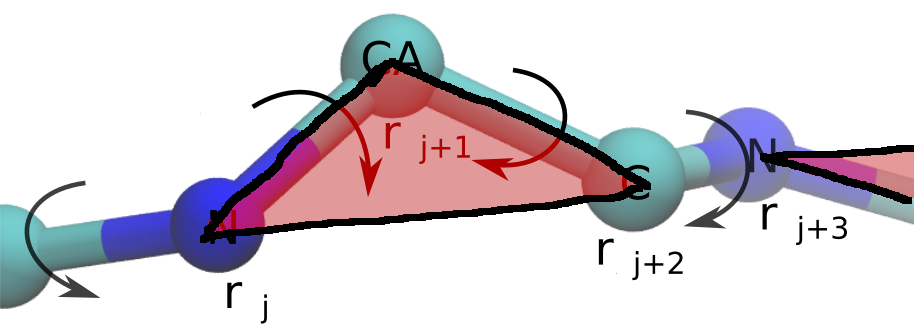
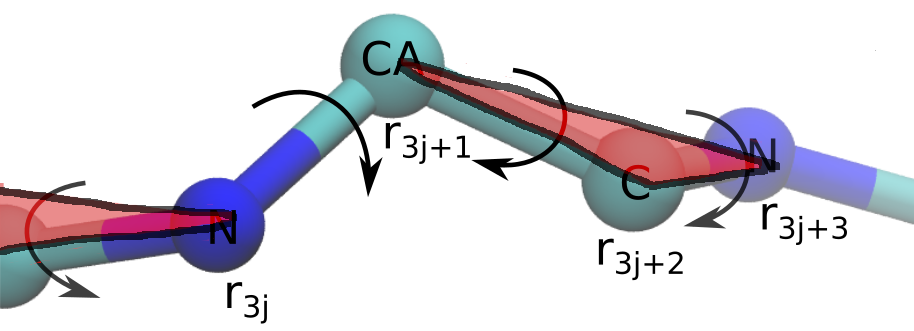
Protein: corrections; MSA: work in progress

diff --git a/docs/msa.html b/docs/msa.html
@@ -1,0 +1,166 @@
+<!doctype html>
+<html lang="en">
+    <head>
+        <meta charset="utf-8">
+        <meta name="viewport" content="width=device-width, initial-scale=1, shrink-to-fit=no">
+        <meta name="description" content="">
+        <meta name="author" content="">
+        <link rel="icon" href="../../../../favicon.ico">
+    
+        <title>OpenFold2</title>
+        <link rel="icon" href="Fig/OpenFold2_small.png" type="image/x-icon">
+    
+        <!-- Bootstrap core CSS -->
+        <link href="https://getbootstrap.com/docs/4.1/dist/css/bootstrap.min.css" rel="stylesheet">
+    
+        <!-- Custom styles for this template -->
+        <link href="css/tmp.css" rel="stylesheet">
+    
+        <script src="js/highlight.pack.js"></script>
+        <script>hljs.initHighlightingOnLoad();</script>
+
+        <script type="text/x-mathjax-config">
+            MathJax.Hub.Config({tex2jax: {inlineMath: [['$','$'], ['\\(','\\)']]}});
+        </script>
+        <script type="text/javascript"
+		    src="https://cdn.mathjax.org/mathjax/latest/MathJax.js?config=TeX-AMS-MML_HTMLorMML">
+	    </script>
+    </head>
+
+  <body>
+
+    <nav class="navbar navbar-expand-md navbar-dark bg-dark fixed-top">
+        <a class="navbar-brand" href="https://github.com/lupoglaz/OpenFold2">GitHub</a>
+        <button class="navbar-toggler" type="button" data-toggle="collapse" data-target="#navbarsExampleDefault" aria-controls="navbarsExampleDefault" aria-expanded="false" aria-label="Toggle navigation">
+          <span class="navbar-toggler-icon"></span>
+        </button>
+  
+          <div class="collapse navbar-collapse" id="navbarsExampleDefault">
+          <ul class="navbar-nav mr-auto">
+              <li class="nav-item">
+                  <a class="nav-link" href="index.html">Home<span class="sr-only">(current)</span></a>
+              </li>
+          </ul>
+          </div>
+      </nav>
+    
+<main role="main" class="container-fluid">
+    <div class="starter-template">
+        <h1>MSA</h1>
+    </div>
+    <div class="container-fluid">
+        <div class="row">
+            <div class="col-sm">
+                <h2>Introduction</h2>
+                <p>Multiple sequence alignment is a key input of AlphaFold2 algorithm. However, the size of the attention matrix 
+                    of the transformer that operates on MSA is $~N^2 M^2$, where $N$ is the sequence length and 
+                    $M$ is the number of sequences in the alignment. This is prohibitively costly even for the DeepMind group.</p>
+                
+                <p>In this chapter, we show how to efficiently incorporate MSA into structure prediction. The key observation is 
+                    that alignment of multiple sequences assumes that they have similar structures. Also, the correlation between 
+                    the mutations in the MSA stems from the proximity of these residues in the protein structure.</p>
+
+            </div>
+            <div class="col-sm">
+                <img src="Fig/AlphaFold2_msapart.png" class="rounded mx-auto d-block float-center" alt="Training process" width=80%>
+                <h5>Figure 1: MSA part of AlphaFold2.</h5>
+            </div>
+            
+        </div>
+        <div class="row">
+            <div class="col-sm">
+                <h2>Dataset</h2>
+                <p>This dataset serves mainly one purpose: to verify that the algorithm can learn structures of proteins from MSA alone.
+                    The sequence, that is served to the structural part is random, while all the information about the arrangement of patters 
+                    is contained in the MSA. Otherwise this dataset closely resembles the one we used in the previous chapter.
+                </p>
+                <p>Similar to the previous dataset, we generate an MSA (<b>Figure 2A</b>), consisting of fragments(Ala) and patterns(Gly). 
+                    Afterwards, we generate displacements of patters 
+                    and insert different amino-acids (R/N) at the beginning of a patterns, that correspond to the displacements.
+                    However in this case each of them are inserted in specific sequence, while the first one remains random.
+                    This way we ensure that all the information about the structure can only be extracted while observing MSA and not 
+                    the first sequence.</p>
+                
+                <p>Then next two setps are the same as in the previous chapter (<b>Figure 2B</b>, <b>Figure 2C</b>). Finally, 
+                    <b>Figure 2D</b> shows samples from the toy MSA dataset. Additionally we increased the size of the dataset
+                    and the length of the sequences to ensure, that the model can not memorize the first random sequences.</p>
+
+            </div>
+            <div class="col">
+                <b>A</b> <img src="Fig/msa_alignment.png" class="rounded mx-auto d-block float-center" alt="Dataset sample" width=80%>
+                <div class="row">
+                    <div class="col-sm">
+                        <b>B</b><img src="Fig/msa_placement.png" class="rounded mx-auto d-block float-center" alt="Dataset sample" width=60%>        
+                    </div>
+                    <div class="col-sm">
+                        <b>C</b><img src="Fig/msa_anim.gif" class="rounded mx-auto d-block float-center" alt="Dataset sample" width=100%>
+                    </div>
+                </div>
+                <b>D</b><img src="Fig/msa_dataset.png" class="rounded mx-auto d-block float-center" alt="Dataset sample" width=50%>
+                <h5>Figure 2: MSA dataset generation steps.</h5>
+            </div>
+            
+        </div>
+        <div class="row">
+            <div class="col-sm">
+                <h2>Model architecture</h2>
+                
+            </div>
+            <div class="col">
+                <br><br><br><br><br><br><br><br>
+                <img src="Fig/ProtRigidBodies.png" class="rounded mx-auto d-block float-center" alt="Training process" width=80%>
+                <h5>Figure 3: Rigid bodies representation of a protein.</h5>
+            </div>
+            
+        </div>
+            
+        <div class="row">
+            <div class="col-sm">
+                <br><br><br>
+                <h2>Results</h2>
+                After training for 100 epochs we have the following result:
+                <table class="table">
+                    <thead>
+                      <tr>
+                        <th scope="col">#</th>
+                        <th scope="col">Train</th>
+                        <th scope="col">Test</th>
+                      </tr>
+                    </thead>
+                    <tbody>
+                      <tr>
+                        <th scope="row">Epoch 0</th>
+                        <td>6.56</td>
+                        <td>6.54</td>
+                      </tr>
+                      <tr>
+                        <th scope="row">Epoch 100</th>
+                        <td>1.37</td>
+                        <td>1.42</td>
+                      </tr>
+                    </tbody>
+                  </table>
+                  <br><br><br>
+                  <h2>Citations</h2>
+                    <ul class="list-unstyled">
+                    <li>1. <em>Evangelos A. Coutsias, Chaok Seok, and Ken A. Dill. "Using quaternions to calculate RMSD". 
+                        Journal of computational chemistry 25:15 (2004) 1849-1857</em>
+                        (<a href="http://dx.doi.org/10.1002/jcc.20110">link</a>)</li>
+                    </ul>
+            </div>
+            <div class="col">
+            </div>
+        </div>
+
+    </div><!-- /.container -->
+</main>
+
+<!-- Bootstrap core JavaScript
+================================================== -->
+<!-- Placed at the end of the document so the pages load faster -->
+<script src="https://code.jquery.com/jquery-3.3.1.slim.min.js" integrity="sha384-q8i/X+965DzO0rT7abK41JStQIAqVgRVzpbzo5smXKp4YfRvH+8abtTE1Pi6jizo" crossorigin="anonymous"></script>
+<script>window.jQuery || document.write('<script src="https://getbootstrap.com/docs/4.1/assets/js/vendor/jquery-slim.min.js"><\/script>')</script>
+<script src="https://getbootstrap.com/docs/4.1/assets/js/vendor/popper.min.js"></script>
+<script src="https://getbootstrap.com/docs/4.1/dist/js/bootstrap.min.js"></script>
+</body>
+</html>

diff --git a/docs/protein.html b/docs/protein.html
@@ -60,7 +60,7 @@
             </div>
             <div class="col-sm">
                 <img src="Fig/AlphaFold2_protpart.png" class="rounded mx-auto d-block float-center" alt="Training process" width=80%>
-                <h5>Figure 1: And example of one sample from the dataset.</h5>
+                <h5>Figure 1: Structural part of AlphaFold2.</h5>
             </div>
             
         </div>
@@ -91,7 +91,7 @@
                     </div>
                 </div>
                 <b>D</b><img src="Fig/prot_dataset.png" class="rounded mx-auto d-block float-center" alt="Dataset sample" width=50%>
-                <h5>Figure 2: And example of one sample from the dataset.</h5>
+                <h5>Figure 2: Protein dataset generation steps.</h5>
             </div>
             
         </div>
@@ -117,7 +117,7 @@
                     where $I$ is an identity matrix.
                 </p>
                 <p>In DeepMind's implementation each amino-acid corresponds to a single rigid body, however exact correspondense is unknown at the moment. 
-                    We chose atoms $N$, $C_\alpha$, $C$ to form a single rigid body in our implementation (<b>Figure 3</b>). 
+                    We chose atoms $C_\alpha$, $C$ (amino-acid $j$), $N$ (amino-acid $j+1$) to form a single rigid body in our implementation (<b>Figure 3</b>). 
                     We place $C_\alpha$ atom at the origin of the reference frame and atoms $N$ and $C$ according to the chemical structure of 
                     the protein backbone. Now, we compute the atomic representation of the protein backbone by multiplying the vectors that belong 
                     to a single rigid body by the corresponding rotation and translate the result with the corresponding translation.

diff --git a/docs/index.html b/docs/index.html
@@ -82,10 +82,10 @@
           <p><a class="btn btn-secondary" href="protein.html" role="button">View &raquo;</a></p>
         </div><!-- /.col-lg-4 -->
         <div class="col-lg-4">
-          <img class="rounded-circle" src="Fig/DummyPicture.png" alt="Generic placeholder image" width="140" height="140">
+          <img class="rounded-circle" src="Fig/msa_icon.png" alt="Generic placeholder image" width="140" height="140">
           <h2>MSA</h2>
           <p>Predicting structures of proteins using MSA.
-          <p><a class="btn btn-secondary disabled" href="tutorial_speedup.html" role="button">View &raquo;</a></p>
+          <p><a class="btn btn-secondary" href="msa.html" role="button">View &raquo;</a></p>
         </div><!-- /.col-lg-4 -->
         <div class="col-lg-4">
           <img class="rounded-circle" src="Fig/DummyPicture.png" alt="Generic placeholder image" width="140" height="140">

diff --git a/docs/iterativeSE3Transformer.html b/docs/iterativeSE3Transformer.html
@@ -60,7 +60,7 @@
             </div>
             <div class="col-sm">
                 <img src="Fig/AlphaFold2_se3part.png" class="rounded mx-auto d-block float-center" alt="Training process" width=80%>
-                <h5>Figure 1: And example of one sample from the dataset.</h5>
+                <h5>Figure 1: SE(3) equivariant part of AlphaFold2.</h5>
             </div>
             
         </div>
